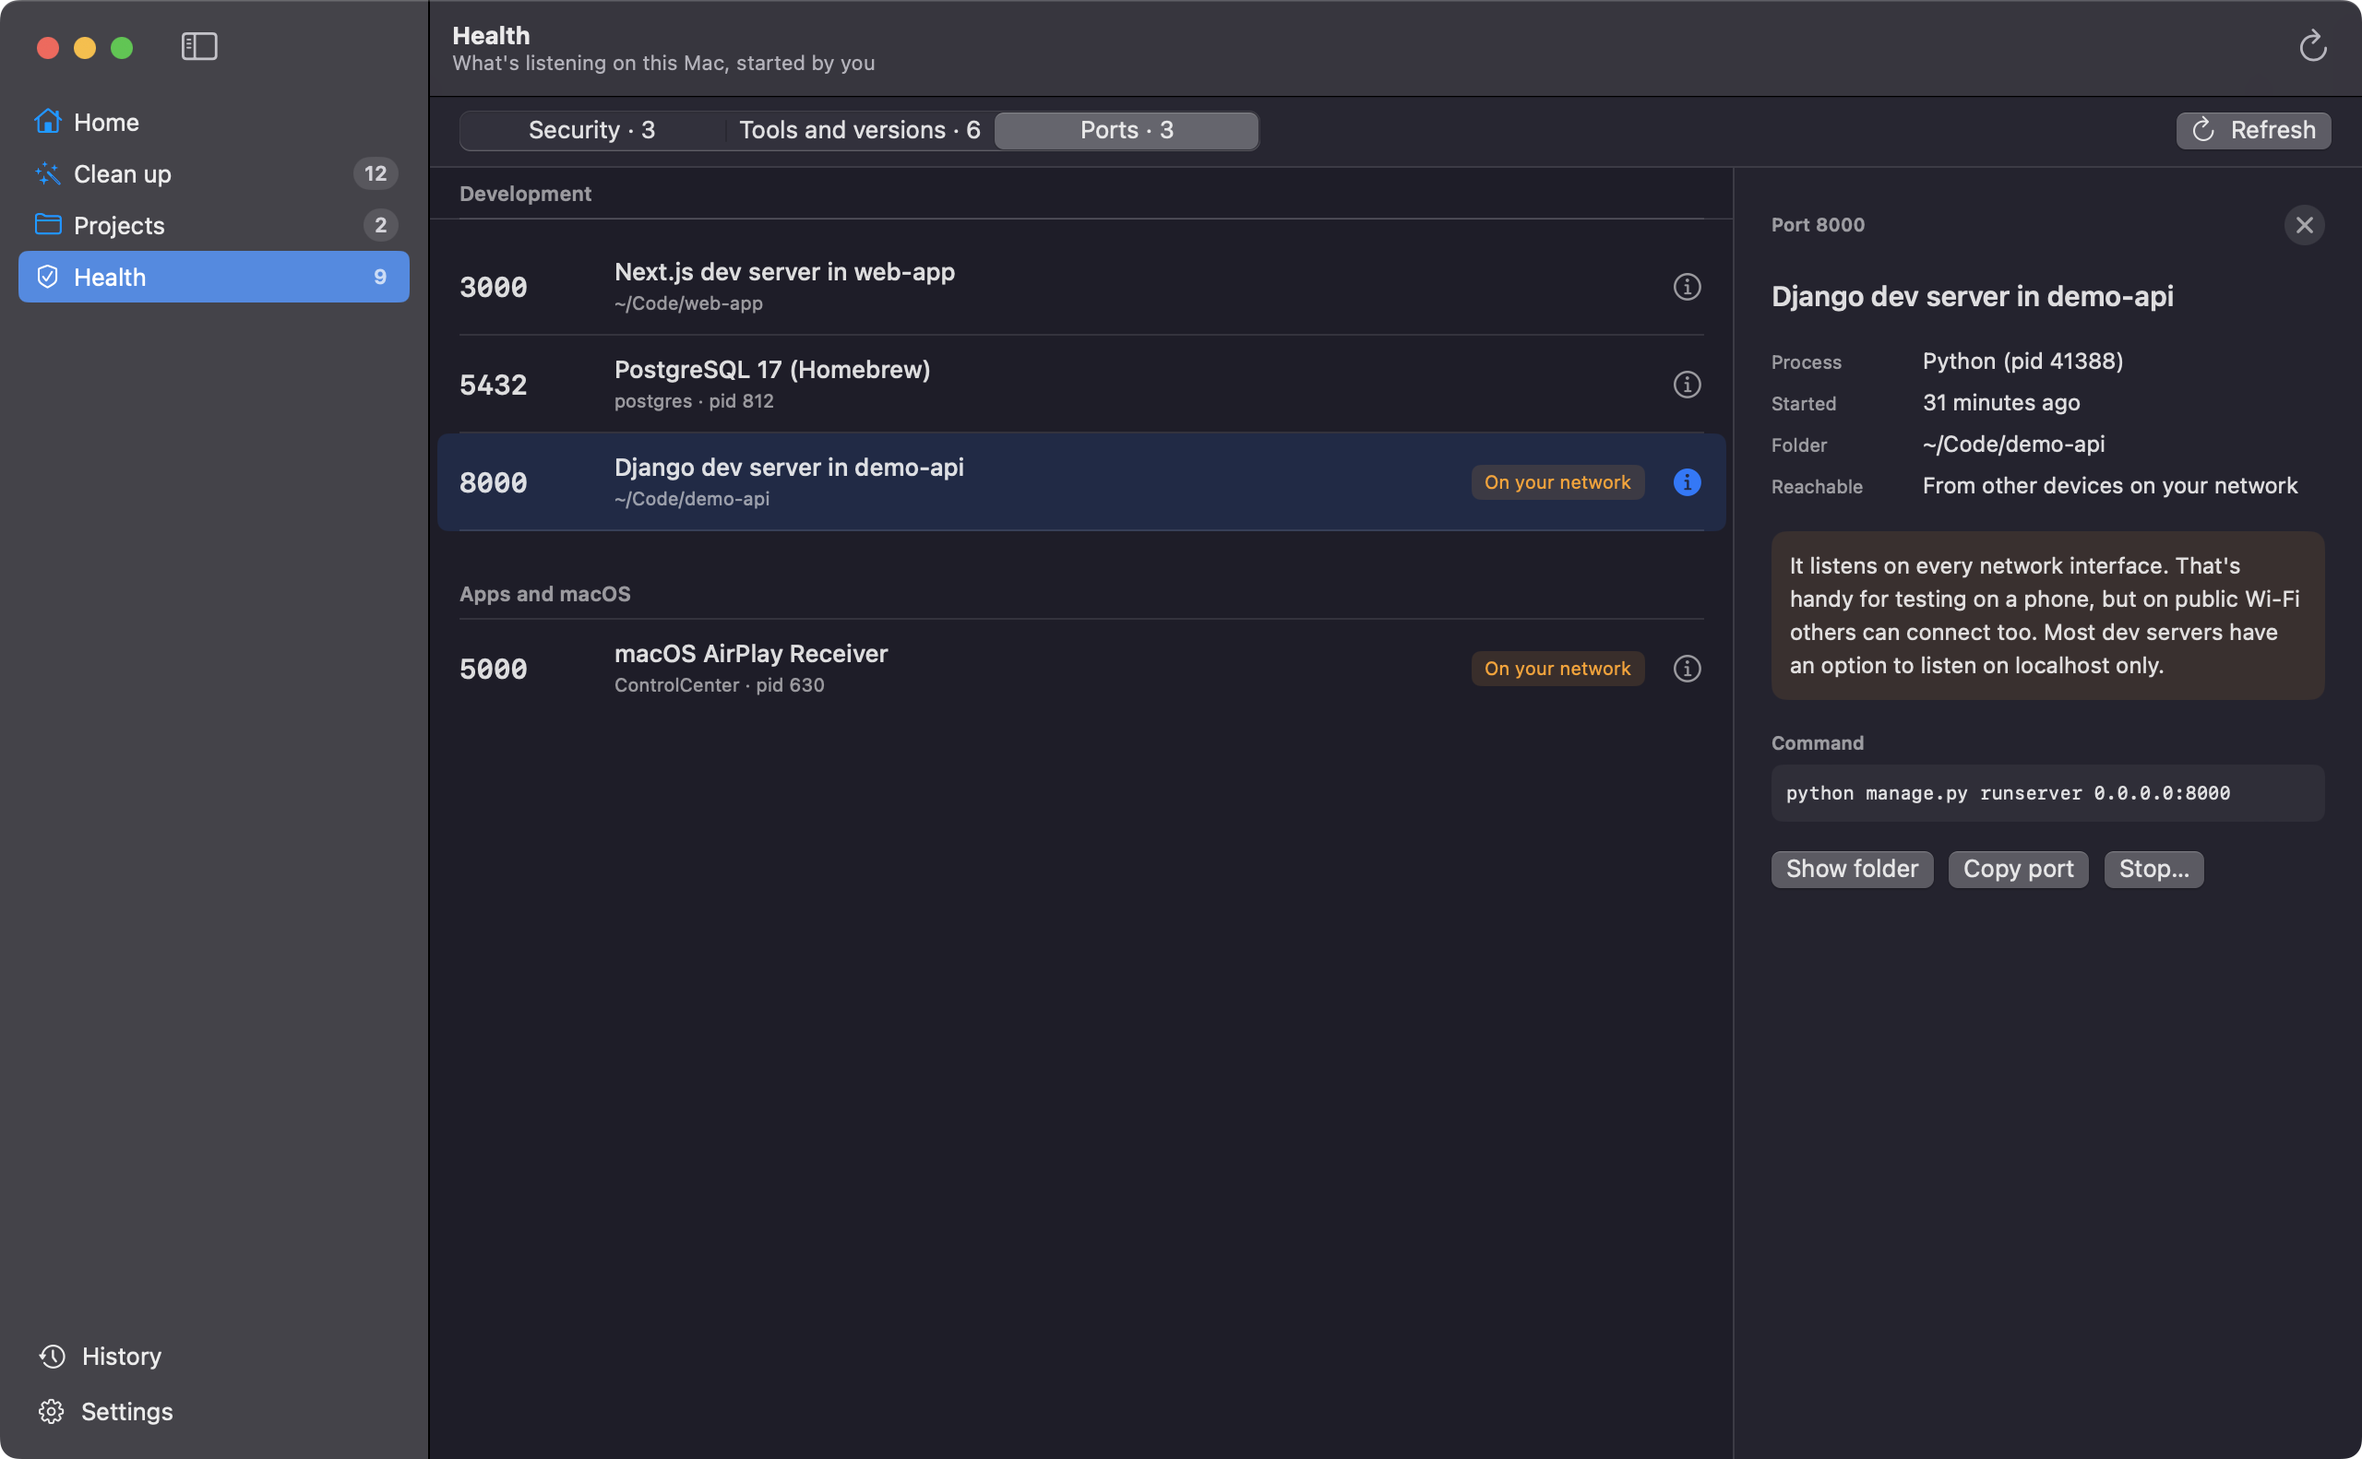
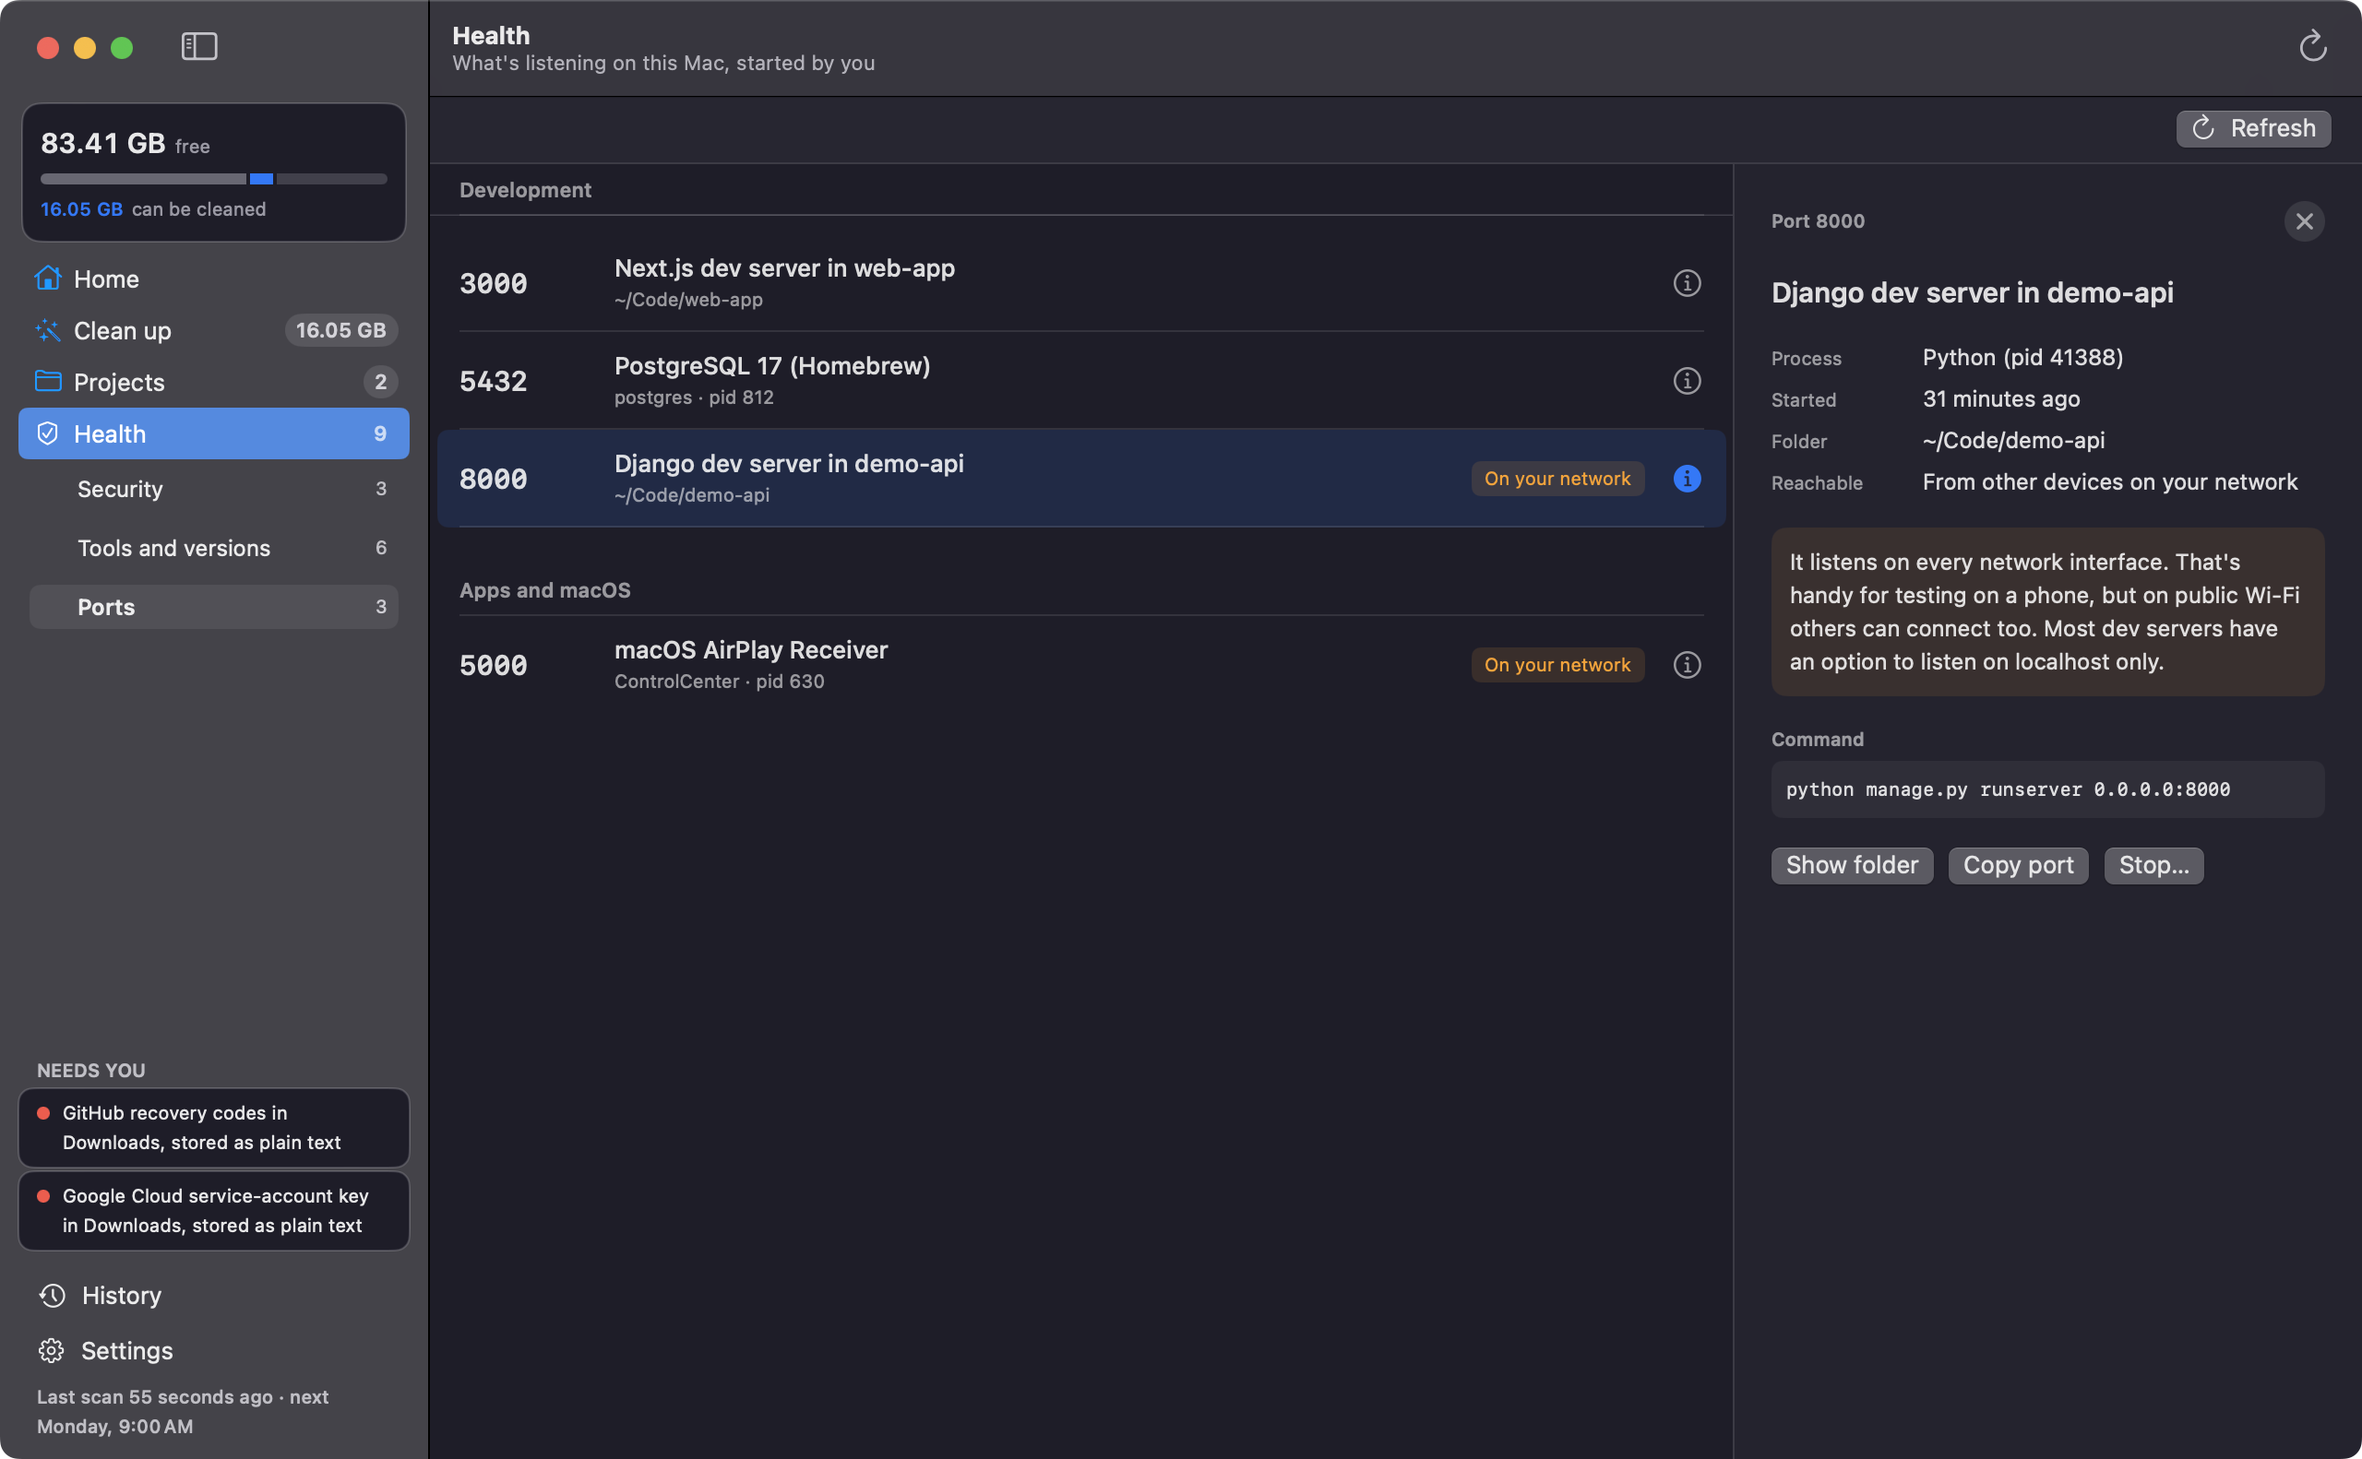
Sidebar that does real work: disk gauge, section sub-rows, Needs you, status line
Clean up kinds, Projects tabs and Health tabs move from the main pane into
sub-rows under the active section, with counts. A disk card sits on top, up to
two alerts above History, and a last-scan / next-scan line at the bottom.
Screenshot tour now restores a hidden window. README screenshots regenerated.

diff --git a/App/Views/ContentView.swift b/App/Views/ContentView.swift
@@ -9,7 +9,7 @@ struct ContentView: View {
         @Bindable var model = model
         NavigationSplitView {
             SidebarView()
-                .navigationSplitViewColumnWidth(min: 190, ideal: 210, max: 260)
+                .navigationSplitViewColumnWidth(min: 220, ideal: 240, max: 280)
         } detail: {
             // Each screen fades in when it appears. A removal transition or an
             // animated container here puts NavigationSplitView into a
@@ -66,19 +66,40 @@ struct SidebarView: View {
         @Bindable var model = model
         List(selection: $model.selection) {
             Label("Home", systemImage: "house").tag(SidebarItem.home)
+
             Label("Clean up", systemImage: "wand.and.stars")
-                .badge(model.hasScanned ? model.findings.count : 0)
+                .badge(Text(model.hasScanned && cleanable > 0 ? SizeFormat.string(cleanable) : ""))
                 .tag(SidebarItem.cleanUp)
+            if model.selection == .cleanUp && model.hasScanned {
+                subRow("All", count: "\(model.findings.count)", selected: model.cleanupKind == nil) { model.cleanupKind = nil }
+                ForEach(CleanupKind.allCases.filter { k in model.findings.contains { CleanupKind.of($0) == k } }) { k in
+                    subRow(k.title, count: SizeFormat.string(size(of: k)), selected: model.cleanupKind == k) { model.cleanupKind = k }
+                }
+            }
+
             Label("Projects", systemImage: "folder")
                 .badge(model.projectsNeedingPush.count)
                 .tag(SidebarItem.projects)
+            if model.selection == .projects {
+                ForEach(ProjectsTab.allCases) { t in
+                    subRow(t.title, count: projectCount(t), selected: model.projectsTab == t) { model.projectsTab = t }
+                }
+            }
+
             Label("Health", systemImage: "checkmark.shield")
                 .badge(model.hasCheckedHealth ? model.healthAttentionCount : 0)
                 .tag(SidebarItem.health)
+            if model.selection == .health {
+                ForEach(HealthTab.allCases) { t in
+                    subRow(t.title, count: healthCount(t), selected: model.healthTab == t) { model.healthTab = t }
+                }
+            }
         }
         .listStyle(.sidebar)
-        .safeAreaInset(edge: .bottom) {
-            VStack(spacing: 2) {
+        .safeAreaInset(edge: .top, spacing: 0) { diskCard.padding(.horizontal, 12).padding(.top, 4).padding(.bottom, 6) }
+        .safeAreaInset(edge: .bottom, spacing: 0) {
+            VStack(alignment: .leading, spacing: 2) {
+                needsYou
                 SidebarFooterRow(title: "History", symbol: "clock.arrow.circlepath",
                                  selected: model.selection == .history) { model.selection = .history }
                 SettingsLink {
@@ -88,10 +109,115 @@ struct SidebarView: View {
                         .contentShape(Rectangle())
                 }
                 .buttonStyle(.plain)
+                Text(statusLine)
+                    .font(.caption2).foregroundStyle(.secondary)
+                    .lineLimit(2)
+                    .padding(.horizontal, 10).padding(.top, 2)
             }
             .padding(.horizontal, 10)
-            .padding(.bottom, 12)
+            .padding(.bottom, 10)
         }
+    }
+
+    // MARK: - Pieces
+
+    private var cleanable: Int64 { model.findings.reduce(0) { $0 + $1.size } }
+
+    private func size(of kind: CleanupKind) -> Int64 {
+        model.findings.filter { CleanupKind.of($0) == kind }.reduce(0) { $0 + $1.size }
+    }
+
+    private func projectCount(_ t: ProjectsTab) -> String {
+        let n: Int
+        switch t {
+        case .projects: n = model.projects.filter(\.onDisk).count
+        case .cleanup: n = model.idleProjects.count
+        case .accounts: n = model.githubAccounts.count
+        case .activity: n = 0
+        }
+        return n > 0 ? "\(n)" : ""
+    }
+
+    private func healthCount(_ t: HealthTab) -> String {
+        switch t {
+        case .security: return model.hasCheckedSecurity ? count(model.visibleSecurity.filter { $0.level != .ok }.count) : ""
+        case .tools: return model.hasCheckedHealth ? count(model.versions?.attentionCount ?? 0) : ""
+        case .ports: return model.hasLoadedPorts ? count(model.ports.filter(\.isDevelopment).count) : ""
+        }
+    }
+
+    private func count(_ n: Int) -> String { n > 0 ? "\(n)" : "" }
+
+    private func subRow(_ title: String, count: String, selected: Bool, action: @escaping () -> Void) -> some View {
+        Button(action: action) {
+            HStack {
+                Text(title).fontWeight(selected ? .semibold : .regular)
+                Spacer(minLength: 4)
+                Text(count).font(.caption).foregroundStyle(.secondary)
+            }
+            .font(.callout)
+            .padding(.leading, 26).padding(.trailing, 6)
+            .frame(height: 24)
+            .background(selected ? Color.primary.opacity(0.08) : .clear, in: RoundedRectangle(cornerRadius: 6))
+            .contentShape(Rectangle())
+        }
+        .buttonStyle(.plain)
+        .listRowSeparator(.hidden)
+    }
+
+    @ViewBuilder
+    private var diskCard: some View {
+        if let disk = model.disk {
+            VStack(alignment: .leading, spacing: 6) {
+                HStack(alignment: .firstTextBaseline, spacing: 5) {
+                    Text(SizeFormat.string(disk.free)).font(.title3.weight(.semibold)).monospacedDigit()
+                    Text("free").font(.caption).foregroundStyle(.secondary)
+                }
+                DiskBar(disk: disk, cleanable: model.hasScanned ? cleanable : 0, height: 6)
+                if model.hasScanned {
+                    HStack(spacing: 4) {
+                        Text(SizeFormat.string(cleanable)).foregroundStyle(Color.accentColor).fontWeight(.semibold)
+                        Text("can be cleaned").foregroundStyle(.secondary)
+                    }
+                    .font(.caption)
+                } else {
+                    Text(model.isScanning ? "Scanning…" : "Not scanned yet").font(.caption).foregroundStyle(.secondary)
+                }
+            }
+            .padding(10)
+            .background(.background, in: RoundedRectangle(cornerRadius: 10))
+            .overlay(RoundedRectangle(cornerRadius: 10).stroke(.separator))
+        }
+    }
+
+    @ViewBuilder
+    private var needsYou: some View {
+        let alerts = Array(model.healthAlerts.prefix(2))
+        if model.hasCheckedHealth, !alerts.isEmpty {
+            Text("NEEDS YOU").font(.caption2.weight(.semibold)).foregroundStyle(.secondary).padding(.horizontal, 10)
+            ForEach(Array(alerts.enumerated()), id: \.offset) { _, alert in
+                Button { model.open(alert) } label: {
+                    HStack(alignment: .top, spacing: 7) {
+                        Circle().fill(alert.critical ? Color.red : Color.orange).frame(width: 7, height: 7).padding(.top, 4)
+                        Text(alert.text).font(.caption).multilineTextAlignment(.leading).lineLimit(2)
+                        Spacer(minLength: 0)
+                    }
+                    .padding(.horizontal, 10).padding(.vertical, 6)
+                    .background(.background, in: RoundedRectangle(cornerRadius: 8))
+                    .overlay(RoundedRectangle(cornerRadius: 8).stroke(.separator))
+                    .contentShape(Rectangle())
+                }
+                .buttonStyle(.plain)
+            }
+            Spacer().frame(height: 6)
+        }
+    }
+
+    private var statusLine: String {
+        if model.isScanning || model.isCheckingVersions { return "Scanning…" }
+        guard let last = model.lastScan else { return model.schedule.enabled ? "Never scanned" : "Never scanned · scheduled scans off" }
+        let ago = last.formatted(.relative(presentation: .named))
+        return model.nextScanText.map { "Last scan \(ago) · next \($0)" } ?? "Last scan \(ago)"
     }
 }
 

diff --git a/App/Views/CleanUpView.swift b/App/Views/CleanUpView.swift
@@ -40,11 +40,10 @@ struct CleanUpView: View {
     @Environment(AppModel.self) private var model
 
     @State private var search = ""
-    @State private var kindFilter: CleanupKind?
 
     private var visible: [Finding] {
         model.findings.filter { f in
-            (kindFilter == nil || CleanupKind.of(f) == kindFilter)
+            (model.cleanupKind == nil || CleanupKind.of(f) == model.cleanupKind)
                 && (search.isEmpty || f.title.localizedCaseInsensitiveContains(search)
                     || f.subtitle.localizedCaseInsensitiveContains(search))
         }
@@ -137,18 +136,7 @@ struct CleanUpView: View {
 
     private var filterBar: some View {
         HStack(spacing: 12) {
-            // Chips scroll sideways when the window is narrow, so they never
-            // push into the search field.
-            ScrollView(.horizontal, showsIndicators: false) {
-                HStack(spacing: 6) {
-                    chip("All", selected: kindFilter == nil) { withAnimation(Motion.swap) { kindFilter = nil } }
-                    ForEach(CleanupKind.allCases) { k in
-                        if model.findings.contains(where: { CleanupKind.of($0) == k }) {
-                            chip(k.title, selected: kindFilter == k) { withAnimation(Motion.swap) { kindFilter = k } }
-                        }
-                    }
-                }
-            }
+            Spacer()
             HStack(spacing: 6) {
                 Image(systemName: "magnifyingglass").foregroundStyle(.secondary)
                 TextField("Search", text: $search)

diff --git a/App/Views/HealthView.swift b/App/Views/HealthView.swift
@@ -9,21 +9,15 @@ struct HealthView: View {
     var body: some View {
         @Bindable var model = model
         VStack(spacing: 0) {
-            HStack(spacing: 12) {
-                Picker("Health area", selection: $model.healthTab) {
-                    ForEach(HealthTab.allCases) { tab in Text(label(tab)).tag(tab) }
-                }
-                .pickerStyle(.segmented)
-                .labelsHidden()
-                .fixedSize()
-                Spacer()
-                if model.healthTab == .ports {
+            if model.healthTab == .ports {
+                HStack {
+                    Spacer()
                     Button { model.refreshPorts() } label: { Label("Refresh", systemImage: "arrow.clockwise") }
                         .disabled(model.isLoadingPorts)
                 }
+                .padding(.horizontal, 16).padding(.vertical, 8)
+                Divider()
             }
-            .padding(.horizontal, 16).padding(.vertical, 8)
-            Divider()
             switch model.healthTab {
             case .security: SecurityView()
             case .tools: RuntimesView()

diff --git a/App/Views/ProjectsView.swift b/App/Views/ProjectsView.swift
@@ -9,21 +9,6 @@ struct ProjectsView: View {
     var body: some View {
         @Bindable var model = model
         VStack(spacing: 0) {
-            HStack(spacing: 12) {
-                Picker("Projects area", selection: $model.projectsTab) {
-                    ForEach(ProjectsTab.allCases) { Text(label($0)).tag($0) }
-                }
-                .pickerStyle(.segmented)
-                .labelsHidden()
-                .fixedSize()
-                Spacer()
-                SettingsLink { Image(systemName: "gearshape") }
-                    .buttonStyle(.borderless)
-                    .help("Project folders, accounts and downloads in Settings")
-                    .simultaneousGesture(TapGesture().onEnded { UserDefaults.standard.set("github", forKey: "settingsTab") })
-            }
-            .padding(.horizontal, 16).padding(.vertical, 8)
-            Divider()
             switch model.projectsTab {
             case .projects: ProjectListTab()
             case .cleanup: CleanupTab()

diff --git a/App/Screenshots.swift b/App/Screenshots.swift
@@ -14,8 +14,11 @@ import SwiftUI
 enum ScreenshotTour {
     static func run(model: AppModel, to dir: URL) async {
         try? FileManager.default.createDirectory(at: dir, withIntermediateDirectories: true)
+        if let hidden = NSApp.windows.first(where: { !$0.isVisible && $0.frame.width > 600 }) {
+            hidden.deminiaturize(nil); hidden.makeKeyAndOrderFront(nil); await pause(1)
+        }
         guard let window = NSApp.windows.first(where: { $0.isVisible && $0.frame.width > 600 }) else {
-            print("shots: no main window"); exit(1)
+            print("shots: no main window", NSApp.windows.map { "\($0.title) vis=\($0.isVisible) \($0.frame)" }); exit(1)
         }
         window.setContentSize(NSSize(width: 1280, height: 800))
         window.center()

diff --git a/App/AppModel.swift b/App/AppModel.swift
@@ -162,6 +162,8 @@ final class AppModel {
     var selectedRuntimeID: String?
 
     var healthTab: HealthTab = .security
+    /// Which kind of cleanup the Clean up list shows; chosen in the sidebar.
+    var cleanupKind: CleanupKind?
     var security: [SecurityFinding] = []
     var isCheckingSecurity = false
     var selectedSecurityID: String?
